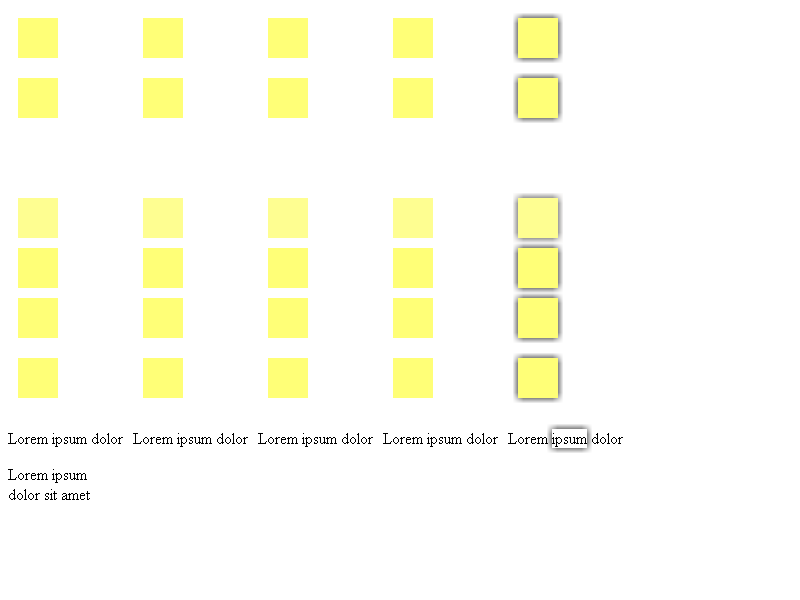
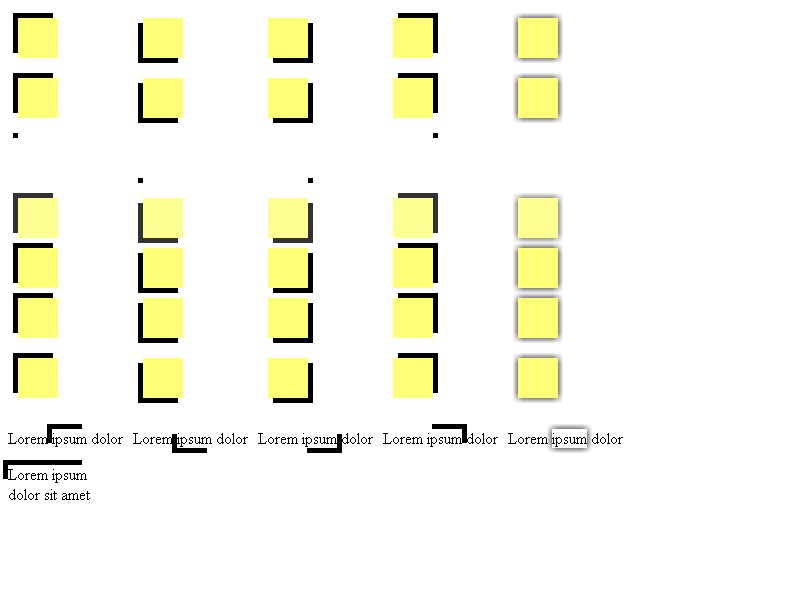
fix box shadows
We need to apply the context transform to the shadow before
rendering it.  There's also a weird case where we have to
flip the y offset if we're not applying the transform.  I'm
not sure why this is necessary, but it allows us to pass
canvas-shadow tests.

BUG=5503

Review URL: http://codereview.chromium.org/14125

git-svn-id: svn://svn.chromium.org/chrome/trunk/src@7002 0039d316-1c4b-4281-b951-d872f2087c98

diff --git a/webkit/port/platform/graphics/skia/GraphicsContextSkia.cpp b/webkit/port/platform/graphics/skia/GraphicsContextSkia.cpp
@@ -930,21 +930,42 @@ void GraphicsContext::setPlatformFillColor(const Color& color)
 }
 
 void GraphicsContext::setPlatformShadow(const IntSize& size,
-                                        int blur,
+                                        int blur_int,
                                         const Color& color)
 {
     if (paintingDisabled())
         return;
+
+    double width = size.width();
+    double height = size.height();
+    double blur = blur_int;
+
+    if (!m_common->state.shadowsIgnoreTransforms)  {
+        AffineTransform transform = getCTM();
+        transform.map(width, height, &width, &height);
+
+        // Transform for the blur
+        double a = transform.a() * transform.a() + transform.b() * transform.b();
+        double b = transform.a() * transform.c() + transform.b() * transform.d();
+        double c = b;
+        double d = transform.c() * transform.c() + transform.d() * transform.d();
+        double eigenvalue = sqrt(0.5 * ((a + d) - sqrt(4 * b * c + (a - d) * (a - d))));
+        blur *= eigenvalue;
+    } else {
+        // This is weird, but shadows get dropped in the wrong direction for
+        // canvas elements without this.
+        height = -height;
+    }
 
     SkColor c;
     if (color.isValid())
         c = color.rgb();
     else
         c = SkColorSetARGB(0xFF/3, 0, 0, 0);    // "std" apple shadow color.
-    SkDrawLooper* dl = new SkBlurDrawLooper(SkIntToScalar(blur),
-                                            SkIntToScalar(size.width()),
-                                            SkIntToScalar(-size.height()),
-                                            c);
+
+    // TODO(tc): Should we have a max value for the blur?  CG clamps at 1000.0
+    // for perf reasons.
+    SkDrawLooper* dl = new SkBlurDrawLooper(blur, width, height, c);
     platformContext()->setDrawLooper(dl);
     dl->unref();
 }
